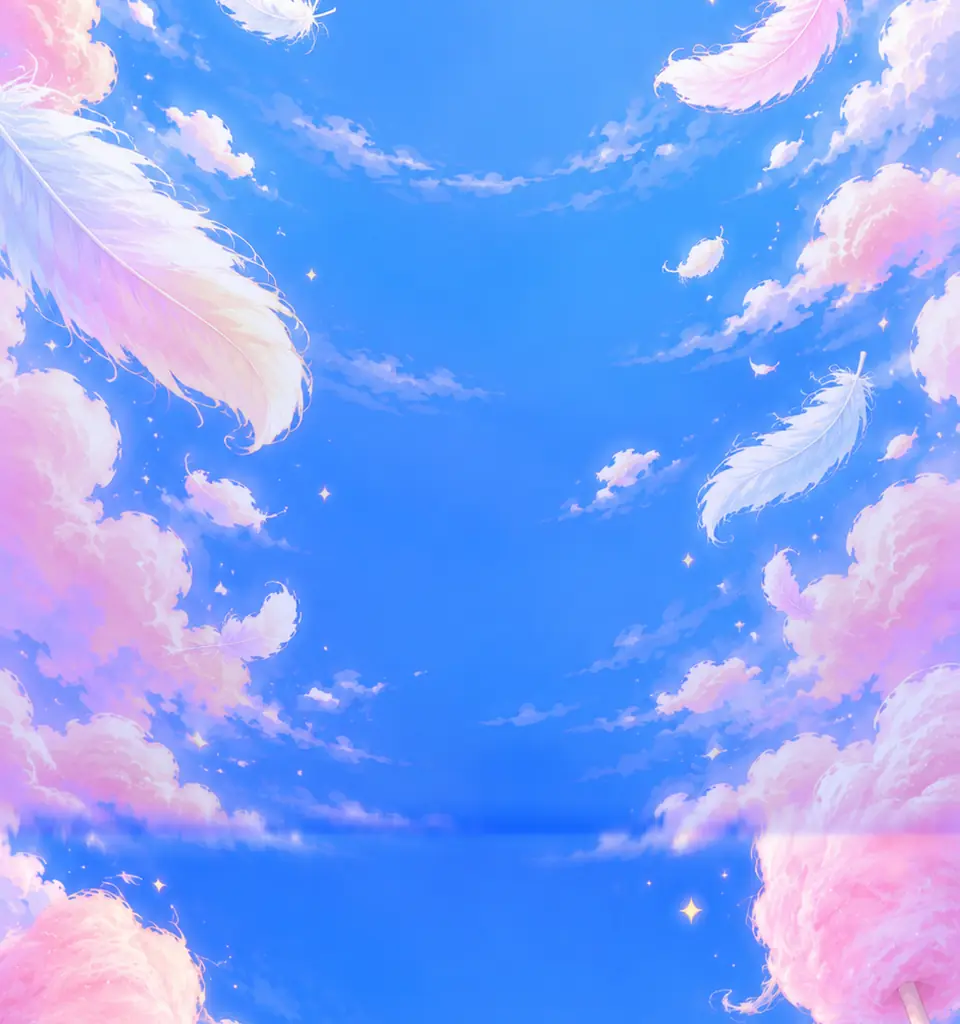
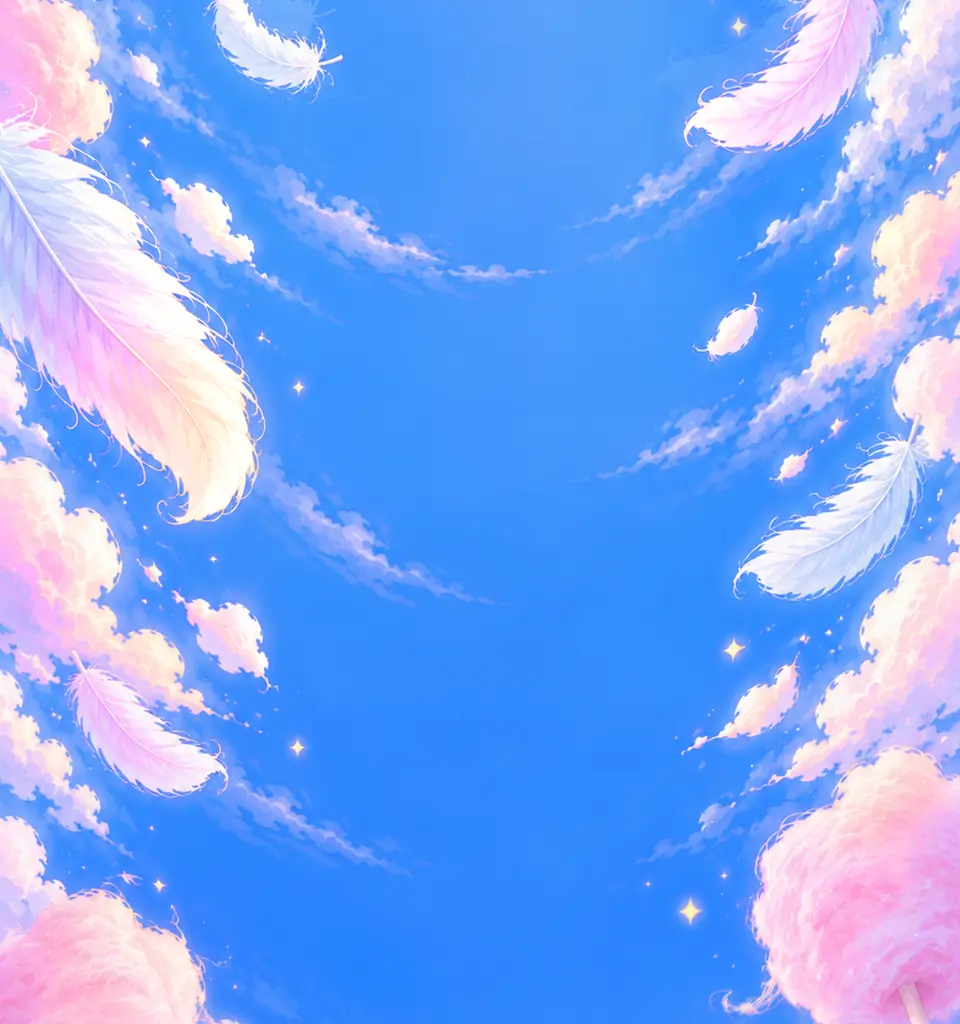
v0.9.192 솜사탕 바다→깃털 하늘 경계선 없앰(깃털 하늘 칸 다시 이어 그림)

diff --git a/index.html b/index.html
@@ -2395,7 +2395,7 @@
   const elTitle = document.getElementById("overTitle");
   const coinNote = document.getElementById("coinNote");
 
-  const GAME_VERSION = "v0.9.191";
+  const GAME_VERSION = "v0.9.192";
   /* 제작사 스플래시(bamhobak friends 로고) — 2026-09-20 끔. 다시 켜려면 true */
   const SPLASH_USE = false;   // 코드를 고칠 때마다 뒤 두 자리를 올린다
   document.getElementById("ver").textContent = GAME_VERSION;
@@ -3392,7 +3392,7 @@
   /* v0.9.138 한 장처럼 이어지는 긴 배경 — 꽃밭부터 똥대장네 집까지 스테이지마다 한 칸씩 이어 그린 그림(Codex, tools/gen_long.py)을
      tools/build_long.py 가 아래부터 LONG_CH px 조각(assets/bg/long/cNN.webp)으로 잘라 둔다. 스테이지 k 의 한가운데 시각(k-0.5)에
      화면 가운데가 LONG_ANCH[k-1](아래에서 잰 px)에 오도록 레벨 시계를 따라 쭉 내려온다 — 지대마다 그림을 겹쳐 녹이던 방식은 뺐다. */
-  /*LONG-BEGIN*/ const LONG_H = 23409, LONG_CH = 1024, LONG_N = 23, LONG_V = 14830, LONG_ANCH = [850, 2130, 3410, 4690, 5970, 7250, 8500, 9756, 11036, 12316, 13596, 14876, 16156, 17436, 18716, 19999, 21279, 22559]; /*LONG-END*/
+  /*LONG-BEGIN*/ const LONG_H = 23409, LONG_CH = 1024, LONG_N = 23, LONG_V = 18294, LONG_ANCH = [850, 2130, 3410, 4690, 5970, 7250, 8500, 9756, 11036, 12316, 13596, 14876, 16156, 17436, 18716, 19999, 21279, 22559]; /*LONG-END*/
   const LONG_IMG = [];
   function longLoad(i) {
     if (i < 0 || i >= LONG_N || LONG_IMG[i] !== undefined) return;

diff --git a/README.md b/README.md
@@ -5,7 +5,7 @@
 👉 **플레이: https://bamhobak.github.io/ddongpi/**
 
 > 이 문서는 `index.html` 의 실제 값을 옮겨 적은 것입니다. 숫자를 고쳤으면 여기도 같이 고쳐 주세요.
-> 마지막으로 맞춰 본 판: **v0.9.191**
+> 마지막으로 맞춰 본 판: **v0.9.192**
 
 ## ⚔ 대전모드 (v0.8.24 한 폰 · v0.8.25 두 폰)
 시작하기를 누르면 **[방 만들기] · [방 참가](방 번호 4자리) · [한 폰으로 둘이서]** 를 고릅니다.
